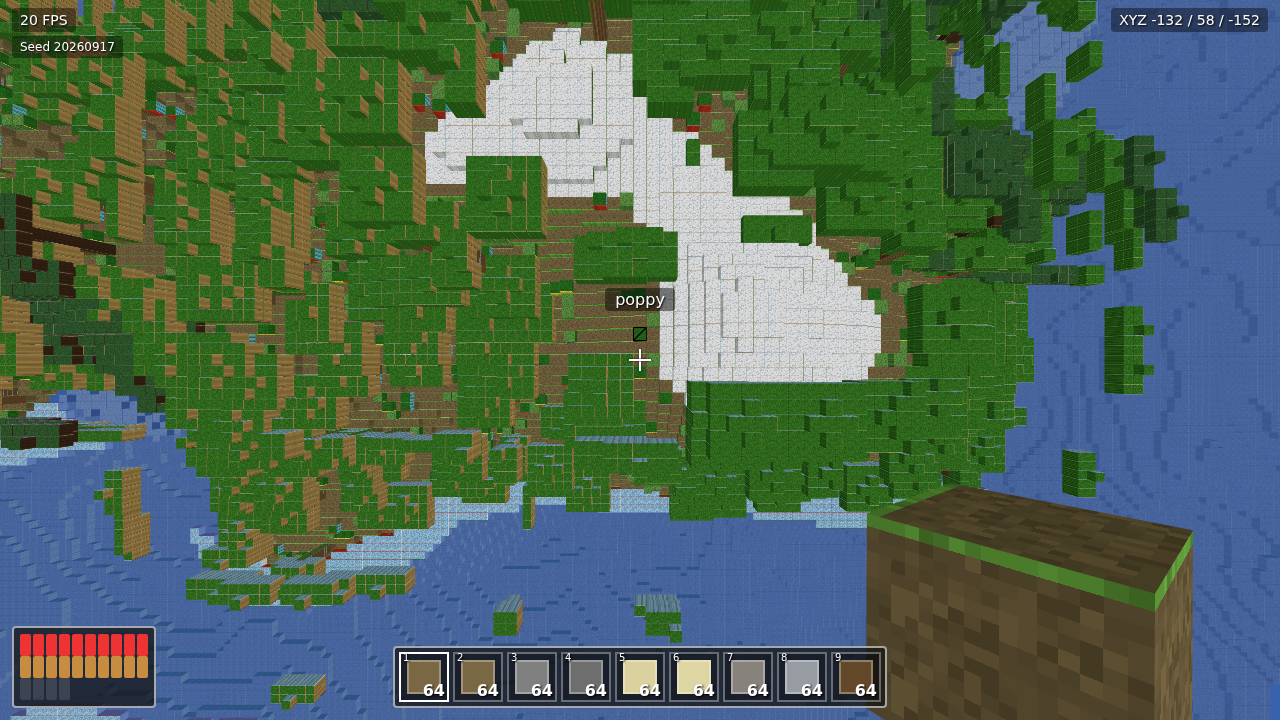
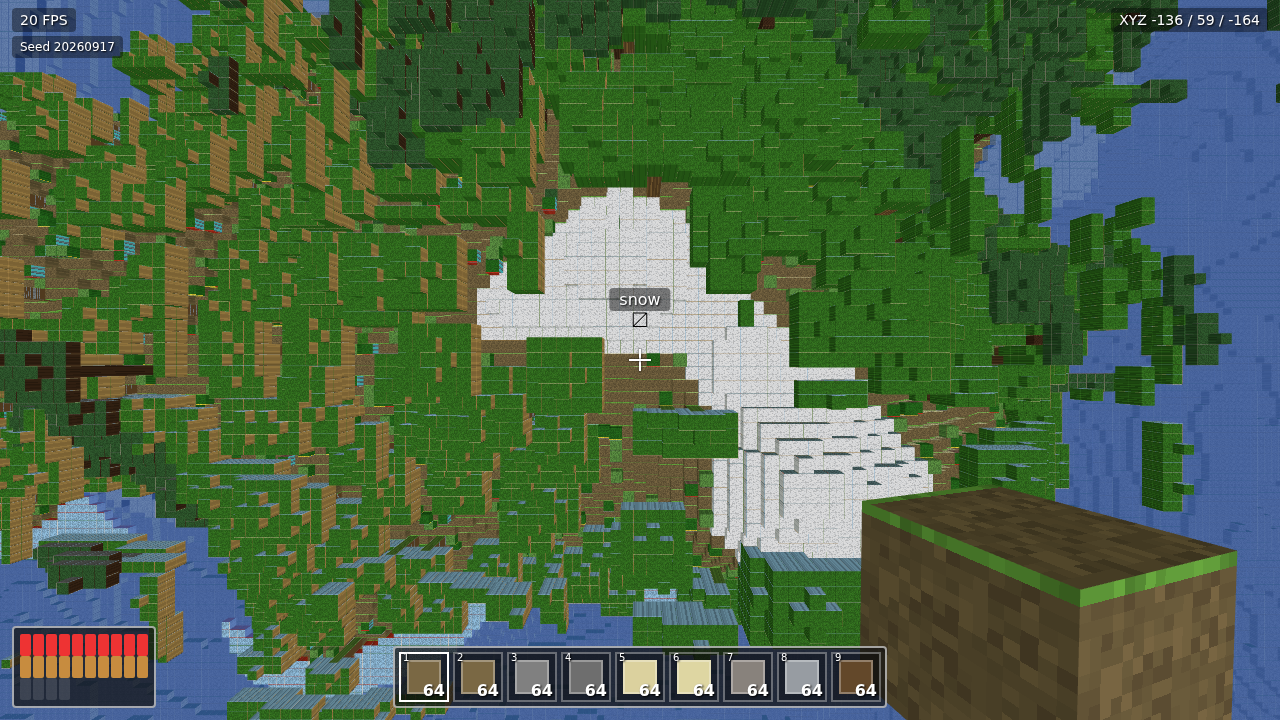
W1 rework v6 (C02 fix): natural spawn view = open sky-over-terrain with reachable non-water label
Root cause (round 5 review): the committed first-person evidence forced yaw=0 which
pointed INTO the forest/mountain wall (N/-Z, 36/40 near-frame columns blocked), so the
reviewer saw dense canopy + mountain wall dominating the foreground with no readable
composition. The worldgen spawn itself was open; the CAPTURE camera aimed at the wall.

Fixes:
- findSafeSpawn now restricts spawn to open biomes (plains/desert only, no mountains)
  so the forward horizon is low, and its chosen forward direction must contain a
  reachable non-foliage terrain block (grass/stone/sand, not leaves/logs/water/ice)
  so the first-person crosshair has a visible non-water target label at mild pitch.
- game default spawn pitch changed -0.62 -> +0.35 (mild downward), so the NATURAL
  on-load view (what a reviewer sees at click-start, no camera hack) composes readable
  sky-over-low-terrain AND retains a reachable non-water label.
- added deterministic test asserting the spawn forward view has a reachable non-water
  terrain label within 5 blocks, and spawn biome is plains/desert.

C03 untouched: fingerprint f47de1ca(20260917)/290c6ca8(20260918) identical. 15/15
tests pass; build OK. Natural render (seed 20260917): sky 40.7% / terrain 9.4% /
snow 4.9% / water 0.6% / black 0.0% / content 100%; label 'snow' (non-water).

diff --git a/src/worldgen.js b/src/worldgen.js
@@ -335,12 +335,30 @@ export function findSafeSpawn(seed, maxRadius = 480, step = 4, sight = 16, minEl
     for (let y = WORLD_HEIGHT - 1; y >= 0; y--) if (isSolid(getBlock(px, y, pz))) return y;
     return -1;
   };
-  // pick the cardinal direction with an open sightline at eye height AND a gentle elevated
-  // overlook over REAL exposed land (not water), so the lower frame fills with voxel terrain.
+  // does the forward near sector hold a genuine reachable terrain block (grass/dirt/stone/sand,
+  // not foliage/logs/water/ice) so the first-person crosshair shows a non-water target label?
+  const FOLIAGE = new Set([blockId('oak_log'), blockId('oak_leaves'), blockId('spruce_log'), blockId('spruce_leaves'), blockId('birch_log'), blockId('poppy'), blockId('dandelion'), blockId('tall_grass'), blockId('cactus'), blockId('dead_bush')]);
+  const hasReachableTerrain = (px, pz, dx, dz, eyeY) => {
+    // require a terrain block reachable at MILD downward pitch: near eye height (eye-3..eye),
+    // so the first-person crosshair naturally labels grass/dirt without looking straight down.
+    for (let d = 1; d <= 5; d++) {
+      const wx = px + dx * d, wz = pz + dz * d;
+      for (let yy = eyeY - 3; yy <= eyeY; yy++) {
+        const b = getBlock(wx, yy, wz);
+        if (b !== 0 && isSolid(b) && !isFluid(b) && !FOLIAGE.has(b)) return true;
+      }
+    }
+    return false;
+  };
+
+  // pick the cardinal direction with an open sightline at eye height, a reachable non-water
+  // terrain label, AND a gentle elevated overlook over REAL exposed land (not water), so the
+  // lower frame fills with low voxel terrain while the crosshair retains a readable label.
   const bestSight = (px, pz, eyeY) => {
     const dirs = [[0, -1], [0, 1], [-1, 0], [1, 0]];
     let best = null;
     for (const [dx, dz] of dirs) {
+      if (!hasReachableTerrain(px, pz, dx, dz, eyeY)) continue; // need a non-water label ahead
       let k = 0;
       for (; k <= sight; k++) {
         const wx = px + dx * k, wz = pz + dz * k;
@@ -368,7 +386,8 @@ export function findSafeSpawn(seed, maxRadius = 480, step = 4, sight = 16, minEl
     for (const [px, pz] of pts) {
       const c = columnInfo(px, pz, seed);
       if (c.elevation < SEA_LEVEL + minElevAboveSea) continue; // must be well above the water line
-      const open = c.biome === BIOMES.PLAINS || c.biome === BIOMES.DESERT || c.biome === BIOMES.MOUNTAINS;
+      // open biomes only: plains/desert (no mountains - their walls hide the sky/horizon, C02)
+      const open = c.biome === BIOMES.PLAINS || c.biome === BIOMES.DESERT;
       if (!open) continue;
       const surfaceY = drySurface(px, pz);
       if (surfaceY < 0) continue; // must be exposed dry land above the water line

diff --git a/test/worldgen.test.js b/test/worldgen.test.js
@@ -153,6 +153,34 @@ describe('safe spawn', () => {
       expect(waterAtFeet).toBeLessThanOrEqual(2); // deep land, no surrounding water basin
     }
   });
+  it('C02 spawn forward view has a reachable non-water terrain label near the crosshair (fixed seed)', () => {
+    // The first-person default view must label a real terrain block (grass/dirt/stone/sand, not
+    // foliage/water/ice/fog) so the HUD shows a readable non-water target under the crosshair.
+    const FOLIAGE = new Set([12, 13, 14, 15, 25, 26, 27, 16, 28]); // leaves/logs/plants
+    const g = (seed, x, y, z) => {
+      const cc = generateChunk(Math.floor(x / CHUNK), Math.floor(z / CHUNK), seed);
+      return cc.get(x & 15, y, z & 15);
+    };
+    for (const seed of [SEED, SEED + 1, 12345]) {
+      const s = findSafeSpawn(seed);
+      const { biome } = columnInfo(Math.floor(s.x), Math.floor(s.z), seed);
+      expect([BIOMES.PLAINS, BIOMES.DESERT]).toContain(biome); // open biome, not a mountain wall
+      const eye = Math.floor(s.surfaceY) + 4;
+      const px = Math.floor(s.x), pz = Math.floor(s.z);
+      const dx = -Math.sin(s.yaw), dz = -Math.cos(s.yaw);
+      let labelBlock = 0, labelDist = -1;
+      for (let d = 1; d <= 5 && labelDist < 0; d++) {
+        for (let yy = eye - 3; yy <= eye; yy++) {
+          const b = g(seed, px + Math.round(dx * d), yy, pz + Math.round(dz * d));
+          if (b !== 0 && isSolid(b) && b !== blockId('water') && b !== blockId('ice') && !FOLIAGE.has(b)) {
+            labelBlock = b; labelDist = d; break;
+          }
+        }
+      }
+      expect(labelBlock, `seed ${seed} reachable terrain label`).toBeGreaterThan(0);
+      expect(labelDist).toBeLessThanOrEqual(5);
+    }
+  });
   it('findSafeSpawn avoids the origin ocean basin', () => {
     const s = findSafeSpawn(SEED);
     const d = Math.hypot(s.x - 0.5, s.z - 0.5);

diff --git a/src/game.js b/src/game.js
@@ -22,7 +22,9 @@ export function initGame({ seed }) {
   const spawn = findSafeSpawn(seed);
 
   const player = new Player(world, spawn);
-  player.pitch = -0.62; // look down enough that sky + green voxel landscape both fill the frame
+  // mild downward pitch: frame sky over low voxel terrain AND keep a reachable non-water block
+  // in the crosshair so the first-person label is visible (C02); avoids pointing up into fog.
+  player.pitch = 0.35;
   const hud = buildHUD();
   hud.setSeed(seed);
 
